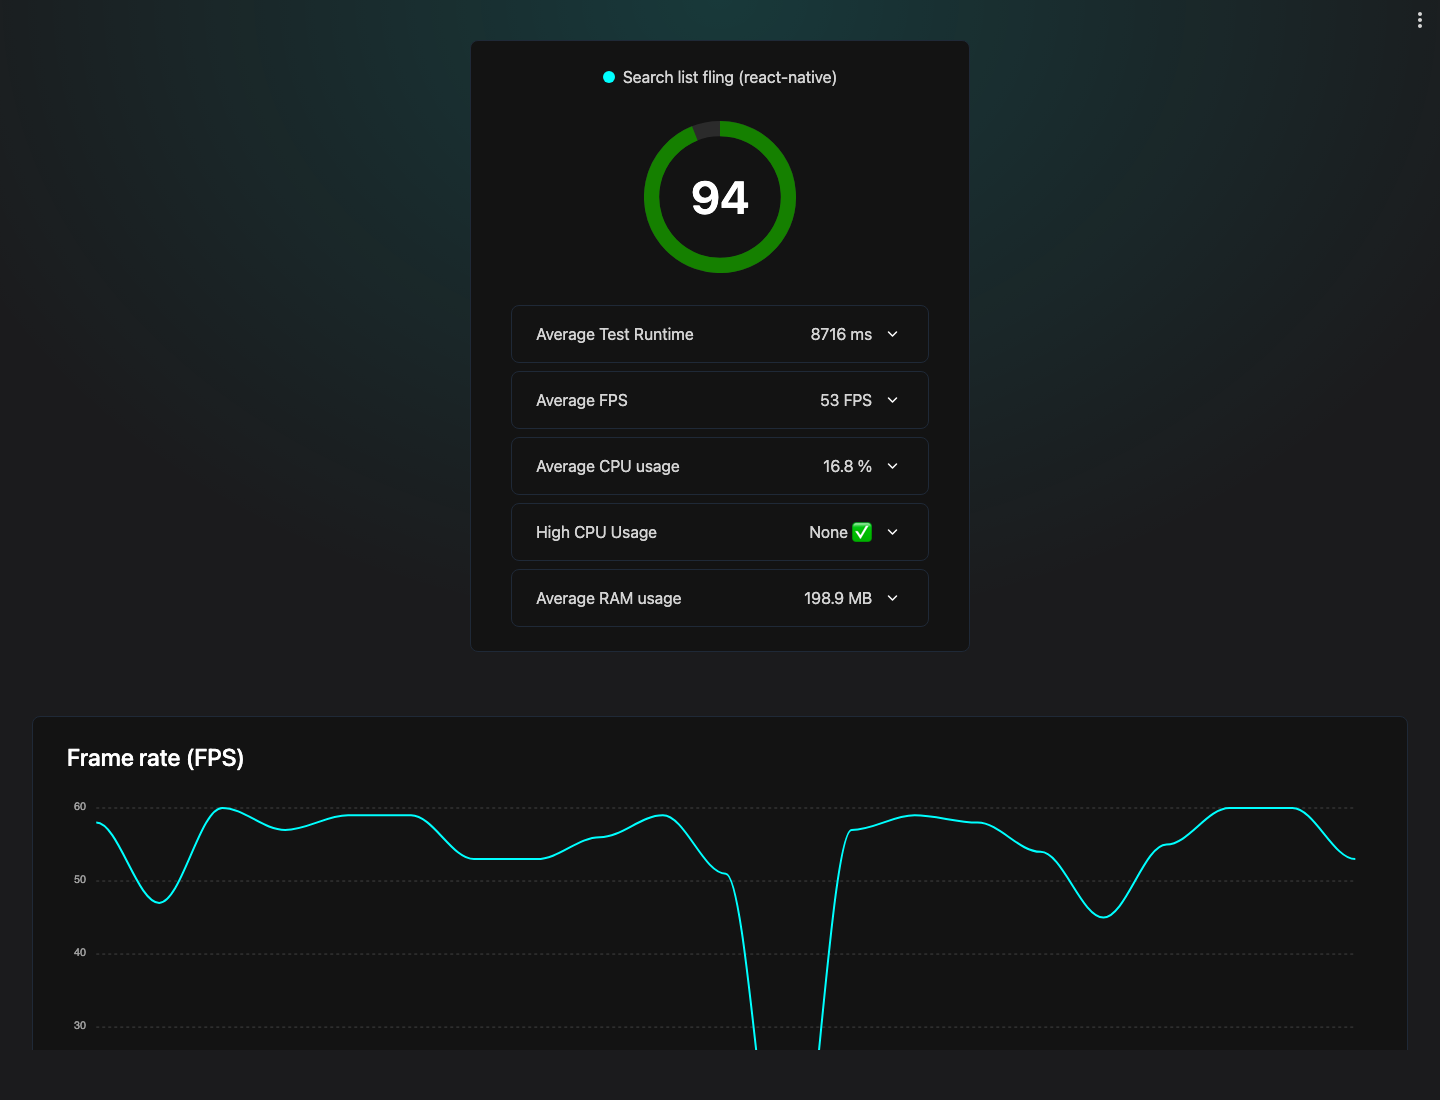
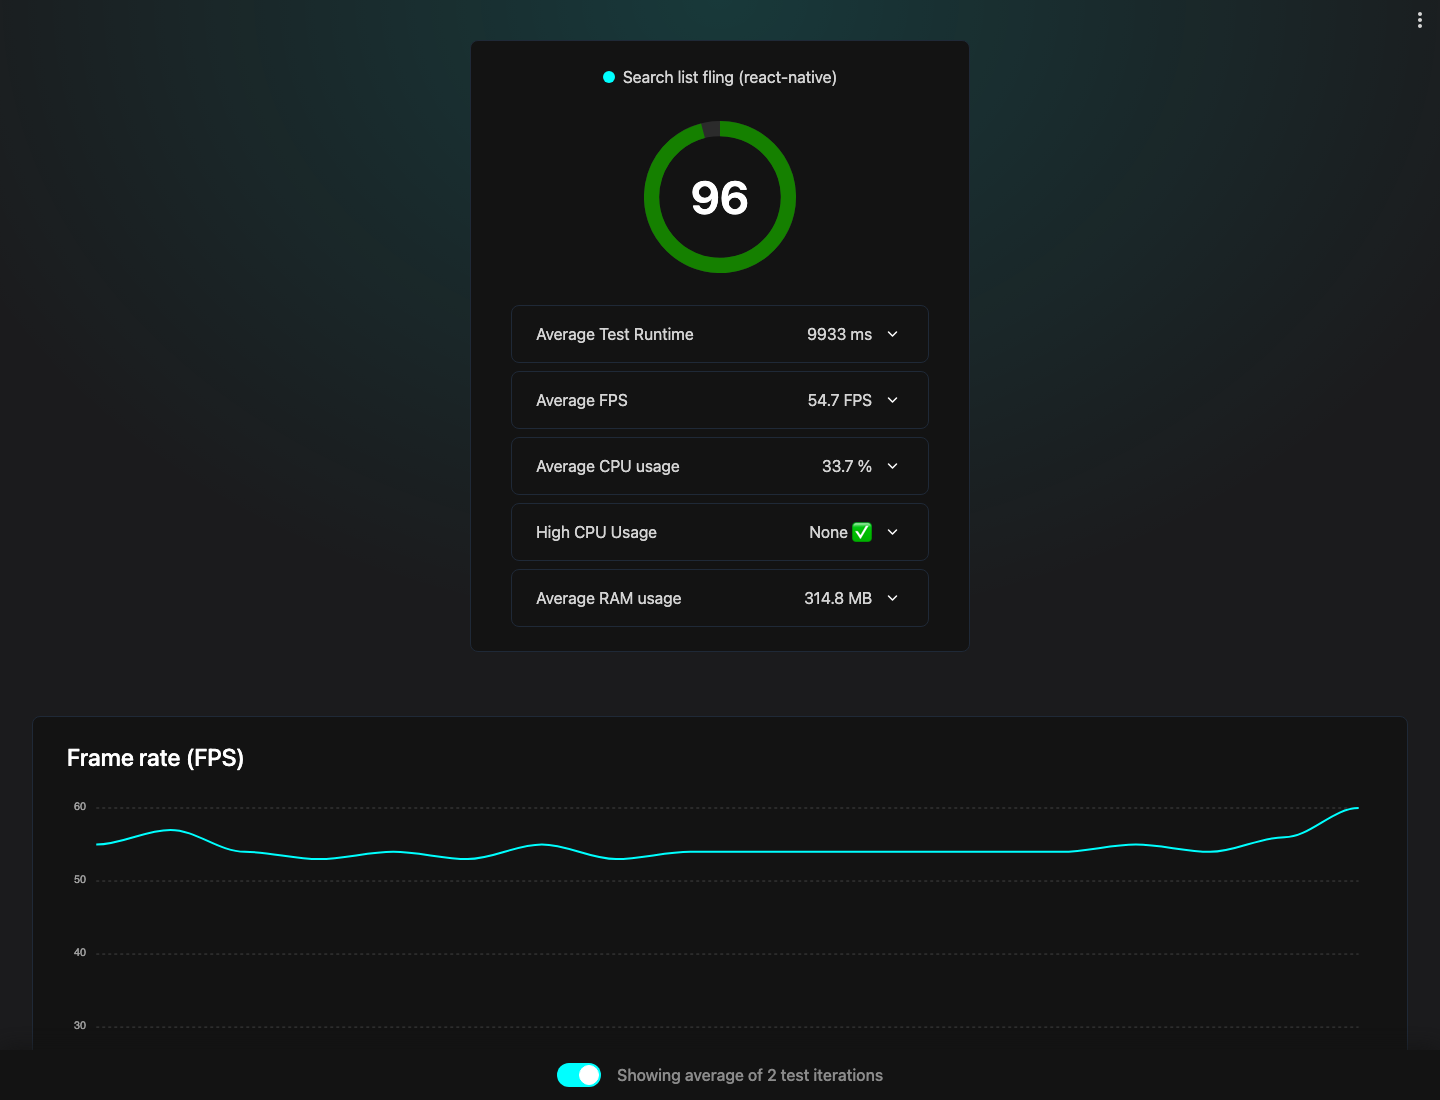
docs: retake Flashlight fling without the 0 FPS cliff
Two iterations, skip first 1.5s: score 96, average 54.7 FPS, line stays in the 50s and peaks at 60.

diff --git a/README.md b/README.md
@@ -76,10 +76,10 @@ Use **React Native DevTools** for CPU/JS, plus **Rozenite Network Activity** for
 Android emulator, **release APK** (`v0.1.0`), search `react-native`, then a 10s fling. [Flashlight](https://docs.flashlight.dev) (Callstack’s recommended metric, not the DevTools Performance tab — that samples JS, not native frames):
 
 <p align="center">
-  <img src="assets/perf-flashlight-fling.png" alt="Flashlight report: score 94, average 53 FPS, peak 60, 199 MB RAM" width="720" />
+  <img src="assets/perf-flashlight-fling.png" alt="Flashlight report: score 96, average 54.7 FPS, peak 60, two fling iterations" width="720" />
 </p>
 
-Score **94**. Average **53 FPS** (chart mostly 50–60, peak **60**). Average CPU **16.8%** (no high-CPU flag). Average RAM **199 MB**. Measured with JS Dev Mode off (release). A mid-range physical Android would be the next honesty check.
+Score **96**. Average **54.7 FPS** over two 10s flings (line holds ~53–57, peak **60**, no drop to 0). High CPU **none**. Average RAM **315 MB** (pages accumulate in the query cache on purpose). Release APK, JS Dev Mode off, Android emulator. A mid-range physical Android would be the next honesty check.
 
 ### Network (Rozenite — Flipper’s Network slot)
 
